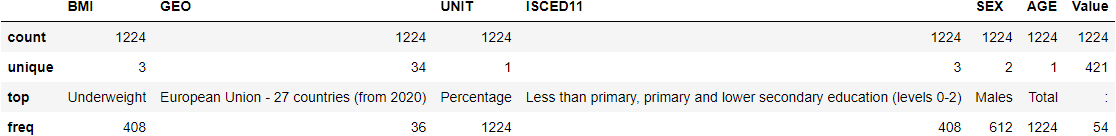
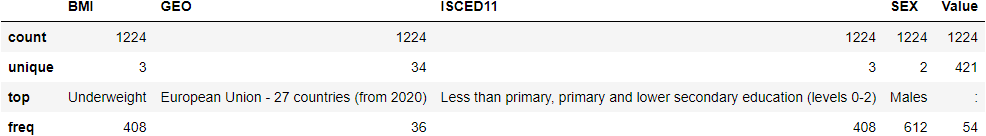
add pivot table

diff --git a/health_nutrition/results/templates/bmi_analysis.html b/health_nutrition/results/templates/bmi_analysis.html
@@ -11,29 +11,35 @@
 <br>
 <br>
 
-{{geo}}
+<img src="{% static 'unique_geo_data.png' %}">
 
 <br>
 <br>
 
-{{columns}}
+
 
 <br>
 <br>
 
-{{bmi_types}}
+<img src="{% static 'bmi2019.png' %}">
 
 <br>
 <br>
 
-{{bmi_description}}
+<img src="{% static 'description.png' %}">
 
 <br>
 <br>
 
 {{first_conclusions}}
-
+<br>
+<br>
 <img src="{% static 'output.png' %}">
 
+<br>
+<br>
+
+
+<img src="{% static 'pivot_bmi.png' %}">
 </body>
 </html>

diff --git a/health_nutrition/results/views.py b/health_nutrition/results/views.py
@@ -33,14 +33,52 @@ class ShowBMIAnalysis(View):
         bmi = pd.read_csv('results\data_files\hlth_ehis_bm1e_1_Data.csv')
         bmi_head = bmi.head(20) # data input as data frame
         df_styled = bmi_head.style.background_gradient()
-        dfi.export(df_styled, "bmi_table.png")
-        unique_geo_data = bmi['GEO'].unique()
+        dfi.export(df_styled, 'bmi_table.png')
+        bmi.drop('UNIT', axis=1, inplace=True)
+        bmi.drop('Flag and Footnotes', axis=1, inplace=True)
+        bmi.drop('AGE', axis=1, inplace=True)
+        bmi_cropped_head = bmi.head(20)
+        df_styled_cropped = bmi_cropped_head.style.background_gradient()
+        dfi.export(df_styled_cropped,'bmi_table_cropped.png')
 
+
+        # cropped_bmi_style = bmi.style.background_gradient()
+        # dfi.export(cropped_bmi_style, 'bmi_table_cropped.png')
+
+        unique_geo_data = bmi['GEO'].unique()
+        unique_geo_data_df = pd.DataFrame(unique_geo_data)
+        df_styled_1 = unique_geo_data_df.style.background_gradient()
+        dfi.export(df_styled_1, 'unique_geo_data.png')
         bmi_columns = bmi.columns
         bmi_types = bmi['BMI'].unique()
         bmi_description = bmi.describe(include=['O'])
         df_styled_2 = bmi_description.style.background_gradient()
         dfi.export(df_styled_2,'static\description.png')
+
+        countries = bmi['GEO'].unique().tolist()[2:]
+        bmi_single_countries = bmi[bmi['GEO'].isin(countries)].copy()
+        bmi_2019 = bmi_single_countries[bmi_single_countries['TIME'] == 2019].copy()
+
+        def change_to_number(x):
+            if x == ':':
+                return 0
+            else:
+                return float(x)
+
+        bmi_2019['Value'] = bmi_2019['Value'].apply(lambda x: change_to_number(x))
+
+        education_descriptions = bmi_2019['ISCED11'].unique().tolist()
+        education_simplified = ['lower', 'middle', 'upper']
+        education_dict = {name: number for name, number in zip(education_descriptions, education_simplified)}
+        bmi_2019['education_level'] = bmi_2019['ISCED11'].map(education_dict)
+
+        df_styled_3 = bmi_2019.head(20).style.background_gradient()
+        dfi.export(df_styled_3, 'bmi2019.png')
+
+        pivot_bmi = bmi_2019.pivot_table(values='Value', index='education_level', columns='BMI').round(2)
+        df_styled_4 = pivot_bmi.style.background_gradient()
+        dfi.export(df_styled_4, 'pivot_bmi.png')
+
         # plot = plt.subplot(111, frame_on=False)
         # plot.xaxis.set_visible(False)
         # plot.yaxis.set_visible(False)
@@ -53,6 +91,12 @@ class ShowBMIAnalysis(View):
         heat_plot = sns.heatmap(bmi.isnull())
         heat_plot_pict = heat_plot.get_figure()
         heat_plot_pict.savefig("output.png")
+
+        # bmi.drop('UNIT', axis=1, inplace=True)
+        # bmi.drop('Flag and Footnotes', axis=1, inplace=True)
+        # bmi.drop('AGE', axis=1, inplace=True)
+
+
 
 
         return render(request, 'bmi_analysis.html', {'bmi': bmi,
